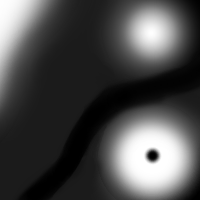
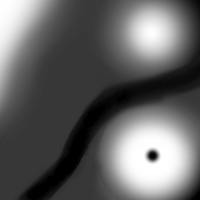
Added support for water levels
The water isn't part of the physics, so the guy stands
in water instead of on top of it.

diff --git a/src/render/render_opengl.cpp b/src/render/render_opengl.cpp
@@ -1027,7 +1027,6 @@ void RenderOpenGL::map()
 	glEnable(GL_NORMALIZE);
 	glEnable(GL_CULL_FACE);
 	glDisable(GL_BLEND);
-	//glDisable(GL_LIGHTING);
 	glFrontFace(GL_CCW);
 	glBindTexture(GL_TEXTURE_2D, st->curr_map->terrain->pixels);
 	
@@ -1053,8 +1052,27 @@ void RenderOpenGL::map()
 	glDisableClientState(GL_NORMAL_ARRAY);
 	glDisableClientState(GL_TEXTURE_COORD_ARRAY);
 	
-	//glEnable(GL_LIGHTING);
 	glDisable(GL_CULL_FACE);
+
+
+	// Water surface
+	if (this->st->curr_map->water) {
+ 		glBindTexture(GL_TEXTURE_2D, st->curr_map->water->pixels);
+
+		glBegin(GL_QUADS);
+			glTexCoord2f(0.0f, 10.0f );
+			glVertex3f( 0, this->st->curr_map->height, this->st->curr_map->water_level  );
+		
+			glTexCoord2f(0.0f, 10.0f );
+			glVertex3f( this->st->curr_map->width, this->st->curr_map->height, this->st->curr_map->water_level );
+		
+			glTexCoord2f(0.0f, 10.0f );
+			glVertex3f( this->st->curr_map->width, 0, this->st->curr_map->water_level );
+
+			glTexCoord2f(0.0f, 10.0f );
+			glVertex3f( 0, 0, this->st->curr_map->water_level );
+		glEnd();
+	}
 }
 
 

diff --git a/src/map.cpp b/src/map.cpp
@@ -83,6 +83,7 @@ static cfg_opt_t opts[] =
 	CFG_INT((char*) "height", 0, CFGF_NONE),
 	
 	CFG_FLOAT((char*) "heightmap-z", 4.0f, CFGF_NONE),
+	CFG_FLOAT((char*) "water-level", 0.0f, CFGF_NONE),
 
 	CFG_END()
 };
@@ -141,6 +142,7 @@ Map::Map(GameState * st)
 	this->heightmap = NULL;
 	this->background = NULL;
 	this->terrain = NULL;
+	this->water = NULL;
 }
 
 Map::~Map()
@@ -184,7 +186,6 @@ int Map::load(string name, Render * render)
 	this->terrain = this->render->loadSprite("terrain.png", mod);
 	if (! this->terrain) reportFatalError("Unable to load map; no terran img");
 
-
 	cfg_t *cfg;
 	
 	char *buffer = mod->loadText("map.conf");
@@ -203,7 +204,12 @@ int Map::load(string name, Render * render)
 	if (this->width == 0 or this->height == 0) return 0;
 	
 	this->heightmap_z = cfg_getfloat(cfg, "heightmap-z");
-	
+
+	this->water = this->render->loadSprite("water.png", mod);
+	if (this->water) {
+		this->water_level = cfg_getfloat(cfg, "water-level");
+	}
+
 	return 1;
 }
 

diff --git a/src/unit.cpp b/src/unit.cpp
@@ -44,14 +44,14 @@ Unit::Unit(UnitType *uc, GameState *st, float x, float y, float z) : Entity(st)
 	this->setModifiers(0);
 
 	// TODO: The colShape should be tied to the wall type.
-	btCollisionShape* colShape = new btCapsuleShapeZ(0.9f, 1.2f);
+	btCollisionShape* colShape = new btCapsuleShapeZ(0.5f, 0.9f);
 	
 	// TODO: Store the colshape and nuke at some point
 	// collisionShapes.push_back(colShape);
 	
 	btDefaultMotionState* motionState = new btDefaultMotionState(btTransform(
 		btQuaternion(0,0,0,1),
-		st->physics->spawnLocation(x, y, 1.2f)
+		st->physics->spawnLocation(x, y, 0.9f)
 	));
 	
 	this->body = st->physics->addRigidBody(colShape, 0.1f, motionState);

diff --git a/src/map.h b/src/map.h
@@ -73,6 +73,9 @@ class Map {
 		int heightmap_h;
 		float heightmap_z;
 
+		float water_level;
+		SpritePtr water;
+
 	public:
 		Map(GameState * st);
 		~Map();
